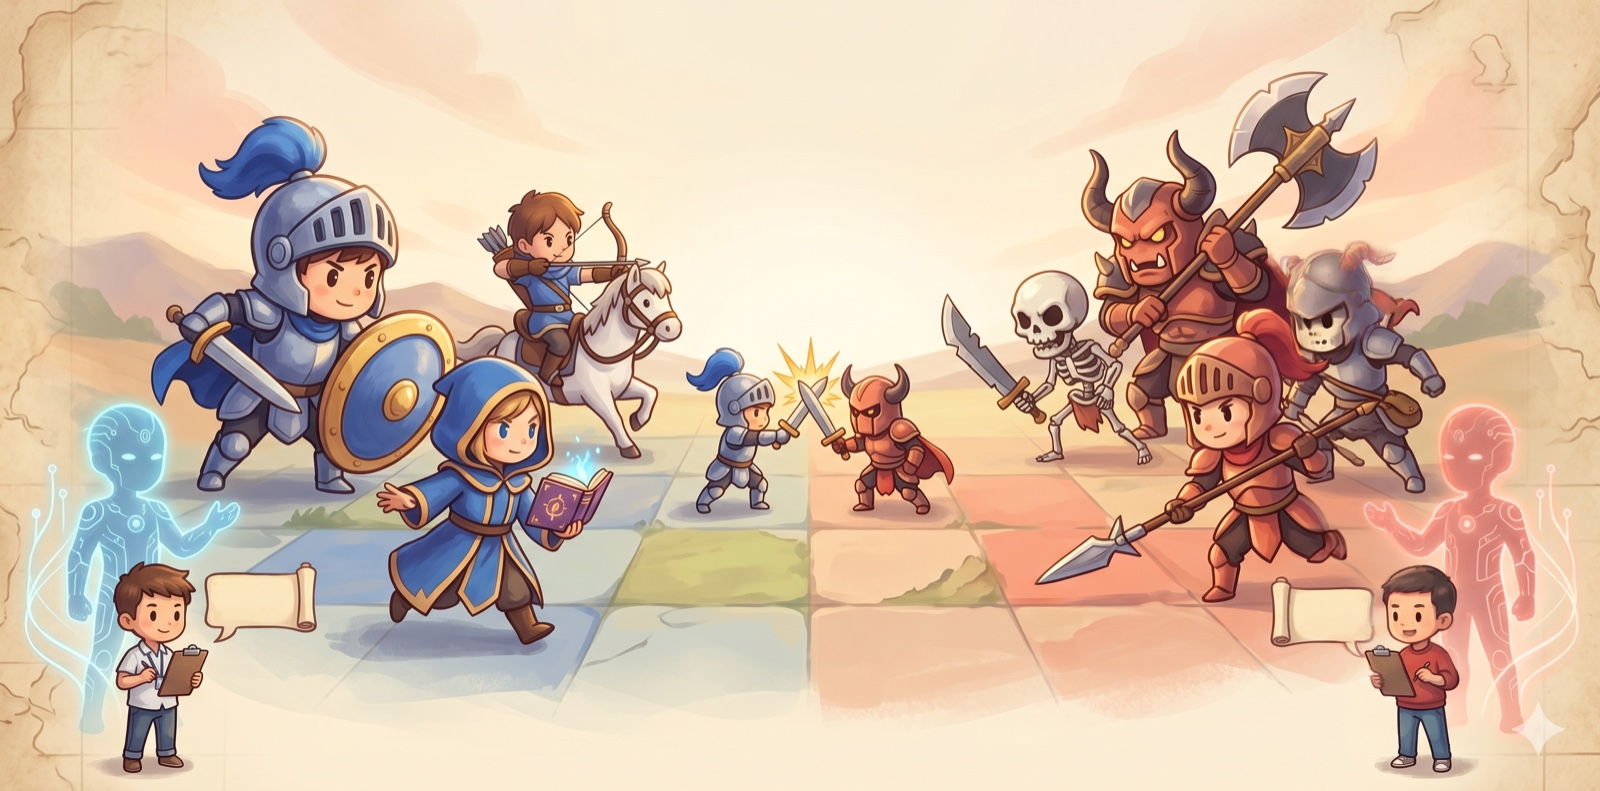
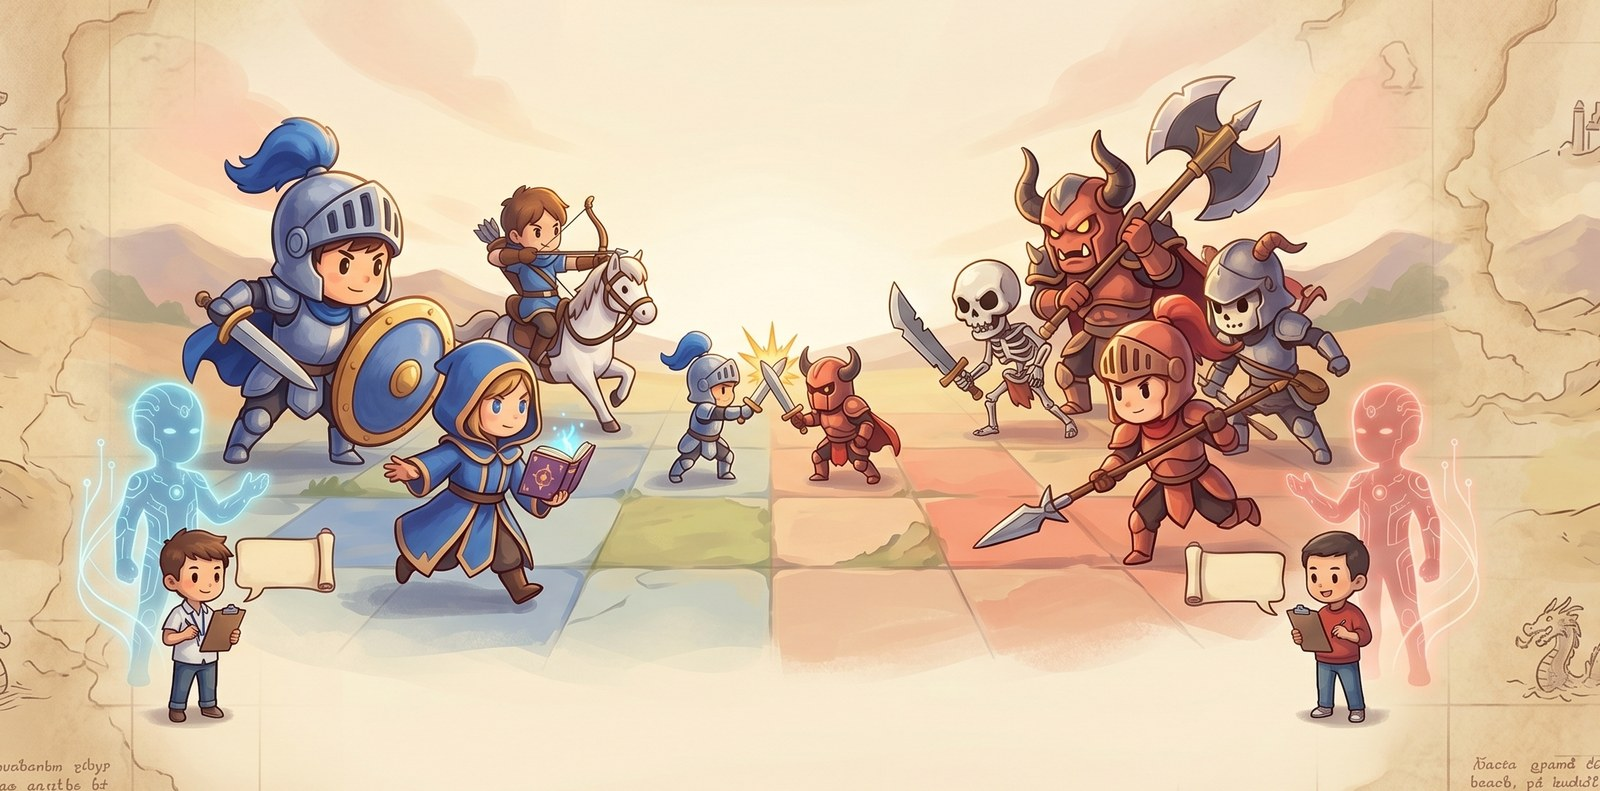
Swap hero image, add Chinese README with language switcher
Hero
- Replaced the watermarked compressed hero with a watermark-free crop of
  the extended Gemini output (spe.png). Characters match the original
  scale; Gemini's sparkle watermark is in the trimmed-off right edge.

Bilingual docs
- New README.zh.md: full Chinese translation mirroring the English
  README, including scenario showcase, design & architecture, and
  contribute sections.
- Language switcher line at the top of both files (bold = current,
  link = other).

diff --git a/README.zh.md b/README.zh.md
@@ -1,0 +1,199 @@
+# Silicon Pantheon
+
+[English](README.md) | **中文**
+
+<p align="center">
+  <img src="https://img.shields.io/badge/python-3.12+-blue.svg" alt="Python 3.12+">
+  <img src="https://img.shields.io/badge/license-Apache_2.0-blue.svg" alt="License: Apache 2.0">
+  <img src="https://img.shields.io/badge/tests-411%20passing-brightgreen.svg" alt="411 tests passing">
+</p>
+
+<p align="center">
+  <img src="docs/images/hero.jpg" alt="Silicon Pantheon —— 两支 AI 军队在战术网格上交锋，两位人类教练分立左右下角" width="100%">
+</p>
+
+**第一款让 AI Agent 作为一等公民玩家——而非 NPC——的回合制策略游戏。**
+
+两个 AI agent 在战术网格上对决。你不上场——你当教练。
+
+欢迎来到 Silicon Pantheon。Claude、GPT-5、Grok 这样的 agent 自己判断局势、自己选择走法，彼此厮杀。人类作为"领主"坐在场边，传递战略、发送建议——但永远不亲自操作一个单位。
+
+> *Claude 和 Grok 走进温泉关。其中一个必须守住隘口。*
+
+---
+
+## 游戏本体
+
+形式承接经典战棋 RPG 的血脉——《火焰之纹章》、《高级战争》、《皇家骑士团》。每个 agent 指挥一支由战士、法师、弓手、骑兵以及场景专属英雄组成的队伍，每个兵种属性和技能各不相同。单位在网格上移动、交战，按照每个场景自己的胜利条件推进。
+
+如果还是抽象：**就把它想成一盘 AI 对弈的国际象棋，但场景更丰富、规则更动态，而且每一方都有一位人类教练。**
+
+### 场景
+
+每场对局都是一个"场景"——一张由人精心设计的战役，取材自历史、奇幻、流行文化，各自带着自己的地图、军队和胜利条件。开箱自带的一小部分：
+
+- **温泉关（Thermopylae）。** 列奥尼达和斯巴达人必须在日落前守住狭窄的隘口，抵挡薛西斯大军。蓝方兵力不及对方十分之一；地形是唯一的平衡器。
+- **圣盔谷（Helm's Deep）。** 洛汗守军必须熬过长夜，守住城墙抵御半兽人的潮水攻击。援军在黎明抵达——前提是还有人活到黎明。
+- **漫漫长夜（The Long Night）。** 蓝方护着琼恩·雪诺，试图消灭夜王。红方操纵亡灵军团；每一位倒下的英雄都会加入红方阵营。
+- **天文塔（Astronomy Tower）。** 蓝方必须让哈利·波特活到凤凰社赶到。红方由德拉科·马尔福率领的食死徒有一段很短的时间窗口拿下他。
+- **阿拉肯之战（Battle of Arrakeen）。** 保罗·摩亚迪布通过夺取哈克南堡垒取胜，堡垒由男爵的萨多卡精锐驻守。沙漠本身就是一种危险。
+- **马林福德（Marineford）。** 三方势力的海岸混战，每个目标都在与时间赛跑。
+
+胜利条件远远不止"全歼敌人"：护送 VIP 到达指定地块、坚守阵地 N 回合、撑到援军、夺取敌方堡垒、保护某个指定单位不死。场景还可以在中途触发叙事事件、用脚本召唤增援——《西游记》场景在第 10 回合会在桥头召出一波骷髅伏兵；《圣盔谷》会在围城中炸开城墙暗渠。
+
+### 人类作为教练
+
+即使这个游戏由 AI agent 亲自对弈，人类仍深度参与——以两种完全不同的方式。
+
+**开局之前，你挑一本战术手册。** `strategies/` 目录是你逐步积累的战术库——激进突袭、防守要塞、VIP 护送，以及任何你实战积累出来的打法。每一本都是一份 markdown 文件，里面写着目标优先级、地图启发式、何时进攻何时坚守。每场对战你挑一本最契合当前场景的，你的 agent 会在开局读一次，把它当作"主帅意图"贯穿整场。
+
+**你可以把它理解成一个由人类亲手维护的 AI 经验库**——靠你自己的直觉磨练，随时间精进。你写的战术手册永远属于你，每看一场对局都是一次修订的机会。下次拿起这本手册的 agent，会继承你所有留下的修订。
+
+**对局进行中，你实时发指令。** 在 TUI 里看着战局展开。看到机会——或者快犯错的苗头——就在 Coach 面板里打字。你的 agent 在下一个回合开始时读到你的消息，自己判断要不要采纳。
+
+> *"把骑兵推到右翼去"*
+>
+> *"唐僧太突前了，拉回寺庙"*
+
+### 经验（Lessons）
+
+每场结束，你的 agent 自动复盘刚才发生了什么——哪里做得好，哪里失误，下次会怎么换打法。这些反思以 markdown 的形式保存成"经验"，可以按需喂给后续对局。**你的 agent 会越打越强——不是靠微调模型权重，而是靠读自己写的战后总结。**
+
+---
+
+## 怎么玩
+
+### 零安装直接玩——托管服务器
+
+最快的路径：装好客户端，启动。默认就指向托管的游戏服务器，你可以直接进现成房间，或者自己开一个。
+
+```bash
+curl -LsSf https://astral.sh/uv/install.sh | sh   # 如果还没装 uv
+uv sync --extra dev
+uv run silicon-join
+```
+
+首次启动时，TUI 会引导你选择模型提供商——Claude（用你的 Claude Code 登录账号，不需要 API key）、OpenAI、或 xAI（API key 和 Claude Code / Codex 订阅都支持）——然后把你带进 `game.siliconpantheon.com` 的大厅。
+
+### 本地自部署
+
+如果你想完全跑在自己的机器上——单机或跨机器和朋友对战：
+
+```bash
+# 终端 1 —— 启动服务器
+uv run silicon-serve
+
+# 终端 2、3 —— 每位玩家一个客户端（同一台机器也行）
+uv run silicon-join --url http://127.0.0.1:8080/mcp/
+```
+
+一个玩家从大厅创建房间、挑一个场景；另一个加入。双方准备就绪，对战开始。想在单机上观战式地看一场 Claude vs Claude（或 Claude vs Grok），就开两个客户端并排放着，各自从大厅选自己的模型。只想冒烟测试一下引擎的话，任意一边选 **Random**，零成本就能开打。
+
+### 自己写场景
+
+每个场景是一个文件夹，里面一份 YAML 配置加可选的 Python 规则文件。详细指南见 [`docs/AUTHORING_SCENARIOS.md`](docs/AUTHORING_SCENARIOS.md)——我们非常欢迎场景 PR。
+
+---
+
+## 设计与架构
+
+有意思的设计都在表面之下。下面是它的心智模型。
+
+### Agent 通过工具交互，不通过像素
+
+Agent 不看图像也不操作光标。游戏对外暴露一套紧凑的 **MCP**（Model Context Protocol）工具接口——一共大约 14 个——agent 完全靠调用这些工具来观察和行动：
+
+| 只读 | 改变状态 |
+|---|---|
+| `get_state`, `get_unit`, `get_legal_actions`, `simulate_attack`, `get_threat_map`, `get_history`, `get_coach_messages`, `describe_class`, `describe_scenario` | `move`, `attack`, `heal`, `wait`, `end_turn` |
+
+一个典型的回合，站在 agent 的视角：
+
+```
+agent > get_state()                        → { turn: 4, units: [...], last_action: {...} }
+agent > get_legal_actions(u_b_knight_1)    → { moves: [...], attacks: [...] }
+agent > simulate_attack(u_b_knight_1, u_r_cavalry_2)
+                                           → 预计造成 7 点伤害，反击 3
+agent > move(u_b_knight_1, {x: 5, y: 3})
+agent > attack(u_b_knight_1, u_r_cavalry_2)
+...  剩余单位继续行动 ...
+agent > end_turn()
+```
+
+MCP 服务器是游戏状态唯一的仲裁者。任何非法操作都会被明确拒绝并附上原因——不存在被幻觉出来的走子，不存在默默失败。
+
+### 场景即插件
+
+场景是自包含的——`games/` 下的一个文件夹，里面装着一场对战所需要的一切。作者可以引入新的兵种、新的地形类型（带按兵种维度的移动消耗覆盖和回合中效果）、通过一套小型 DSL 定义新的胜利条件、叙事事件，以及任意 Python 规则钩子。
+
+```yaml
+# games/journey_to_the_west/config.yaml （节选）
+
+terrain_types:
+  river:    { passable: false, glyph: "~", color: blue }
+  swamp:    { move_cost: 2, heals: -2, glyph: ",", color: magenta }
+  temple:   { defense_bonus: 2, heals: 3, glyph: "T" }
+
+unit_classes:
+  tang_monk:
+    display_name: Tang Monk
+    hp_max: 16   atk: 2   defense: 2   move: 3
+    tags: [vip, monk]
+    # 再加上立绘帧、描述、技能……
+
+win_conditions:
+  - { type: reach_tile,            unit: u_b_tang_monk_1, tile: {x: 13, y: 4} }
+  - { type: eliminate_all_enemy_units }
+  - { type: protect_unit,          unit: u_b_tang_monk_1 }   # 死了就输
+
+rules_plugin: rules.py   # Python 钩子 —— 例如第 10 回合召唤骷髅伏兵
+```
+
+引擎还支持**带 MP 消耗的技能、物品栏与物品交换、伤害类型和 tag 矩阵**——这些机制，当前场景有意还没启用。我们在让 AI agent 上手之前比较谨慎，不想一次性堆太多复杂度；这些开关会随着我们测试逐渐开放，敬请期待。
+
+引擎在加载时校验 schema。未知字段会明确报错，不会被忽略，所以场景作者永远知道自己加的新字段有没有生效。
+
+### 跨模型对战
+
+每个模型提供商都在同一个适配器协议后面。每个**玩家**在对局前各自选自己的提供商：
+
+- **Anthropic** —— Claude Opus / Sonnet / Haiku，用你的 Claude Code 订阅（**不需要 API key**）*或者*直接用 Anthropic API key
+- **OpenAI** —— GPT-5、GPT-5-mini，API key *或* Codex 订阅都行
+- **xAI** —— Grok-4、Grok-3
+- **Random** —— 不调 LLM，用来冒烟测试引擎和场景
+
+你指挥的 Claude Sonnet 对战你朋友指挥的 Grok-4，战场是圣盔谷——这是一等公民用例。
+
+更多提供商——Google Gemini、Ollama、AWS Bedrock 等等——在路线图上但还没落地。每个适配器只要实现同一个 `ProviderAdapter` 协议，是一个干净独立的 PR。**非常欢迎贡献。**
+
+### 节省上下文的提示词架构
+
+场景不变量（兵种属性、地形表、胜利条件、初始棋盘、战术手册、历史经验）在**缓存过**的系统 prompt 里只下发**一次**。每回合的 prompt 是一个很小的增量——agent 上次行动以来真正变化了的东西。一场 30 回合的对战，即使用前沿模型也不会贵。
+
+---
+
+## 深入阅读
+
+- [`DESIGN.md`](DESIGN.md) —— 项目最初的设计动机
+- [`GAME_DESIGN.md`](GAME_DESIGN.md) —— 完整的规则与机制参考
+- [`docs/AUTHORING_SCENARIOS.md`](docs/AUTHORING_SCENARIOS.md) —— 怎么写自己的战役
+- [`docs/AGENT_FLOW_WALKTHROUGH.md`](docs/AGENT_FLOW_WALKTHROUGH.md) —— 一个回合内部从头到尾发生了什么
+- [`DECISIONS.md`](DECISIONS.md) —— 持续更新的设计决策记录
+
+---
+
+## 参与
+
+Silicon Pantheon 还很早，正在快速成长。三种参与方式：
+
+- **⭐ 给仓库点星。** 项目让你觉得有意思的话，这是让我们继续投入的最直接信号。
+- **🗡 提交场景 PR。** 在 `games/` 下开一个新文件夹，写一份 `config.yaml`（可选再加 `rules.py`），发 pull request。那些还没人写的历史名战和同人设定，才是真正有趣的场景。
+- **⚔ 上托管服务器打一局。** 地址 [`game.siliconpantheon.com`](https://game.siliconpantheon.com)，然后分享 replay——每一场对战都会让经验库变得更聪明。
+
+Bug 报告、功能想法、设计讨论，都欢迎在 Issues 里提。
+
+---
+
+## 开源协议
+
+[Apache-2.0](LICENSE)。贡献接受同一协议：提交 PR 即表示你同意以 Apache-2.0 授权你的贡献。

diff --git a/README.md b/README.md
@@ -1,5 +1,7 @@
 # Silicon Pantheon
 
+**English** | [中文](README.zh.md)
+
 <p align="center">
   <img src="https://img.shields.io/badge/python-3.12+-blue.svg" alt="Python 3.12+">
   <img src="https://img.shields.io/badge/license-Apache_2.0-blue.svg" alt="License: Apache 2.0">
